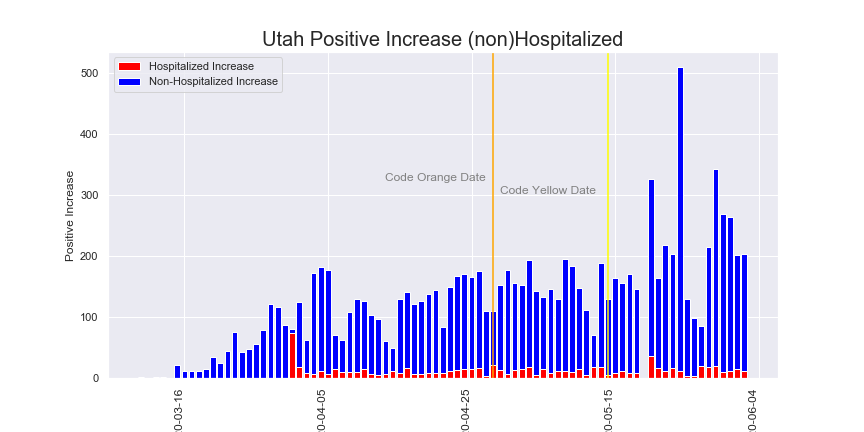
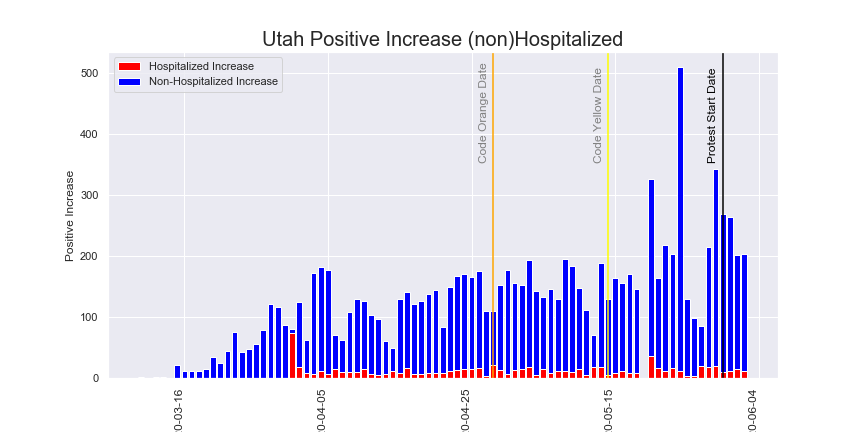
Added Protest Start Line

diff --git a/My_COVID_API.py b/My_COVID_API.py
@@ -92,6 +92,9 @@ OrangeDate = int(OrangeDate)
 YellowDate = UT[UT['date']=='2020-05-14']['date_ordinal']
 YellowDate = int(YellowDate)
 
+ProtestDate = UT[UT['date']=='2020-05-30']['date_ordinal']
+ProtestDate = int(ProtestDate)
+
 fig, ax = plt.subplots(figsize = (12,6))
 ax.bar(UT['date_ordinal'], UT['hospitalizedIncrease'], label='Hospitalized Increase',color='red')
 ax.bar(UT['date_ordinal'], UT['TotMinusHosptializedIncresase'], label='Non-Hospitalized Increase',color='blue',bottom=UT['hospitalizedIncrease'])
@@ -103,9 +106,11 @@ ax.set_xticklabels(labels=new_labels, rotation=90, ha='right',fontdict={'fontsiz
 
 
 ax.axvline( x=OrangeDate, color='orange')
-ax.annotate('Code Orange Date', (OrangeDate - 15,322),color='gray')
+ax.annotate('Code Orange Date', (OrangeDate - 2,355),color='gray',rotation=90)
 ax.axvline( x=YellowDate, color='yellow')
-ax.annotate('Code Yellow Date', (YellowDate - 15,302),color='gray')
+ax.annotate('Code Yellow Date', (YellowDate - 2,355),color='gray',rotation=90)
+ax.axvline( x=ProtestDate, color='black')
+ax.annotate('Protest Start Date', (ProtestDate - 2 ,355),color='black',rotation=90)
 
 plt.title('Utah Positive Increase (non)Hospitalized', fontdict={'fontsize':20})
 plt.xlabel('Date', fontdict={'fontsize':12})
@@ -137,11 +142,12 @@ plt.legend(loc='upper left')
 new_labels = [date.fromordinal(int(item)) for item in ax.get_xticks()]
 ax.set_xticklabels(labels=new_labels, rotation=45, ha='right',fontdict={'fontsize':12})
 
-
 ax.axvline( x=OrangeDate, color='orange')
-ax.annotate('Code Orange Date', (OrangeDate - 15,322),color='gray')
+ax.annotate('Code Orange Date', (OrangeDate - 2,250),color='gray',rotation=90)
 ax.axvline( x=YellowDate, color='yellow')
-ax.annotate('Code Yellow Date', (YellowDate - 15,302),color='gray')
+ax.annotate('Code Yellow Date', (YellowDate - 2,250),color='gray',rotation=90)
+ax.axvline( x=ProtestDate, color='black')
+ax.annotate('Protest Start Date', (ProtestDate - 3 ,250),color='black',rotation=90)
 
 plt.title('Utah Positive Increase Rolling Average', fontdict={'fontsize':20})
 plt.xlabel('Date', fontdict={'fontsize':12})
